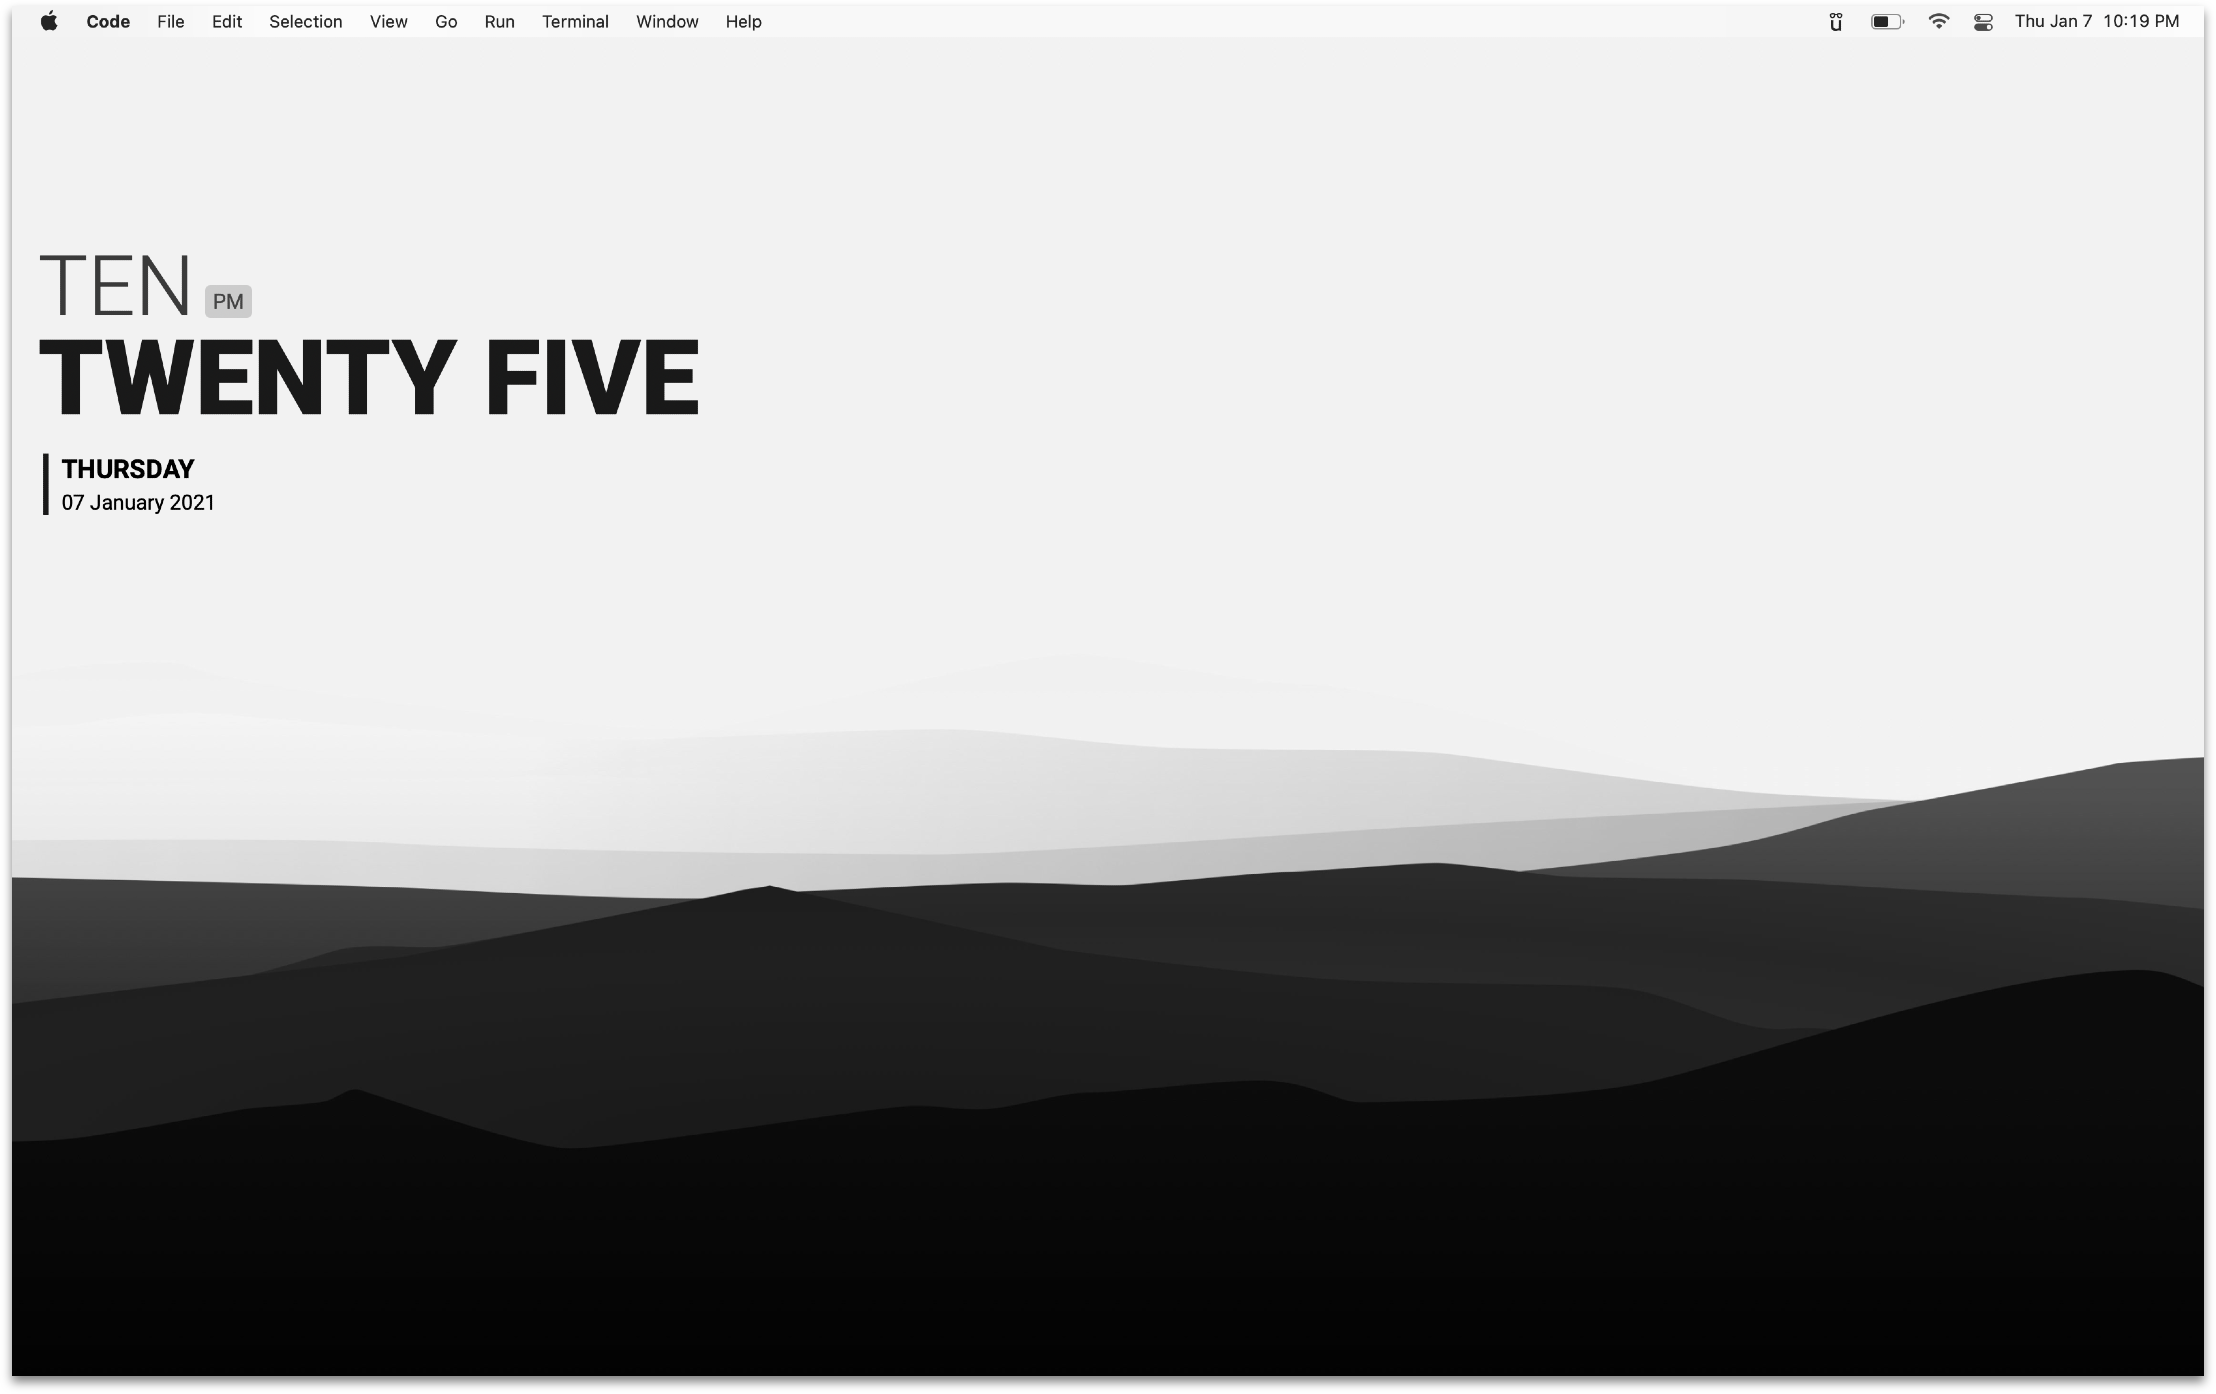
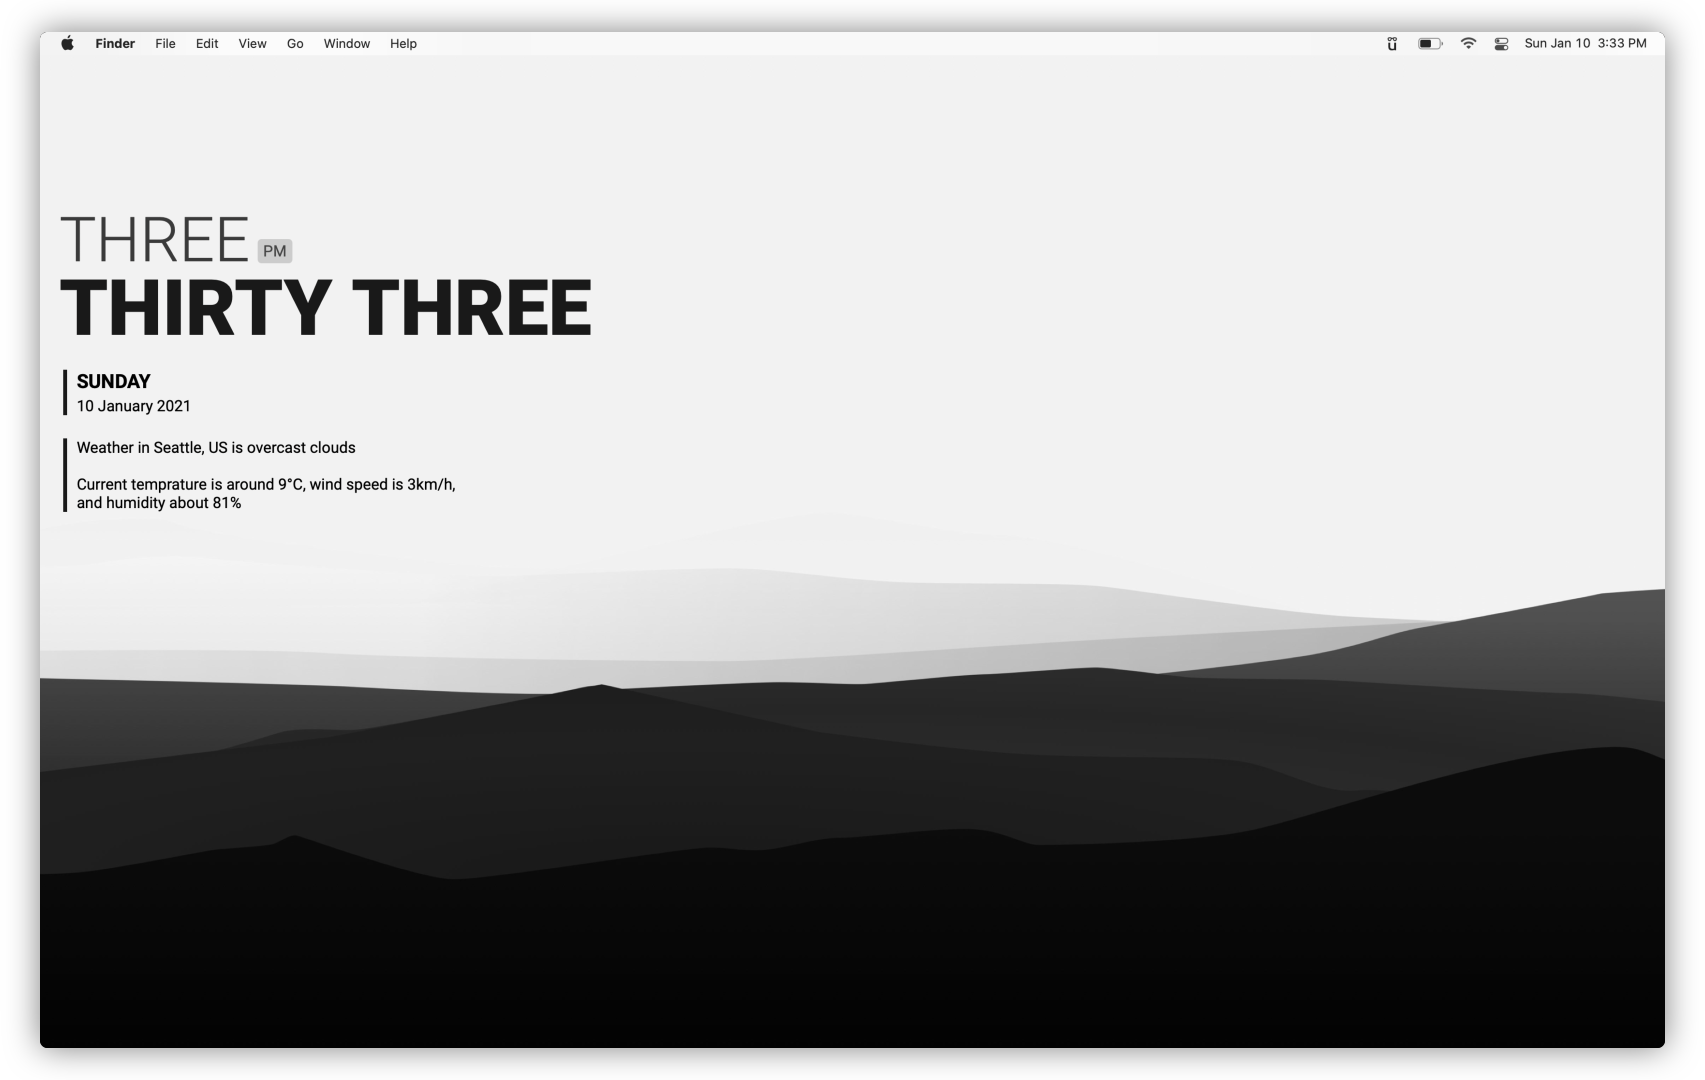
Update readme, remove keys

diff --git a/lynx.jsx b/lynx.jsx
@@ -112,7 +112,7 @@ export const render = ({output, error}) => {
                 (<div className={infoBox}>Fetching weather...</div>) : 
                 (<div className={infoBox}>
                     <div className={weatherBox}>
-                        Weather in {weather["location"]} is {weather["condition"]}
+                        Weather in {weather["location"]} is {weather["condition"]}.
                         <br></br><br></br>
                         Current temprature is around {weather["temprature"]}°C, wind speed is {weather["windSpeed"]}km/h, and humidity about {weather["humidity"]}%
                     </div>

diff --git a/README.md b/README.md
@@ -7,7 +7,8 @@ Custom widgets for [Übersicht](https://tracesof.net/uebersicht/)
 1. Clone this repo to a local directory
 2. `cd` into this directoy and run `npm install`
 3. Set this directoy as the source for widgets in Übersicht preferences.
-4. Pick the widget you want to display, hide the others.
+4. Add personamized config in the `./user_config.json` file. 
+5. Pick the widget you want to display, hide the others.
 
 ## Widgets 
 
